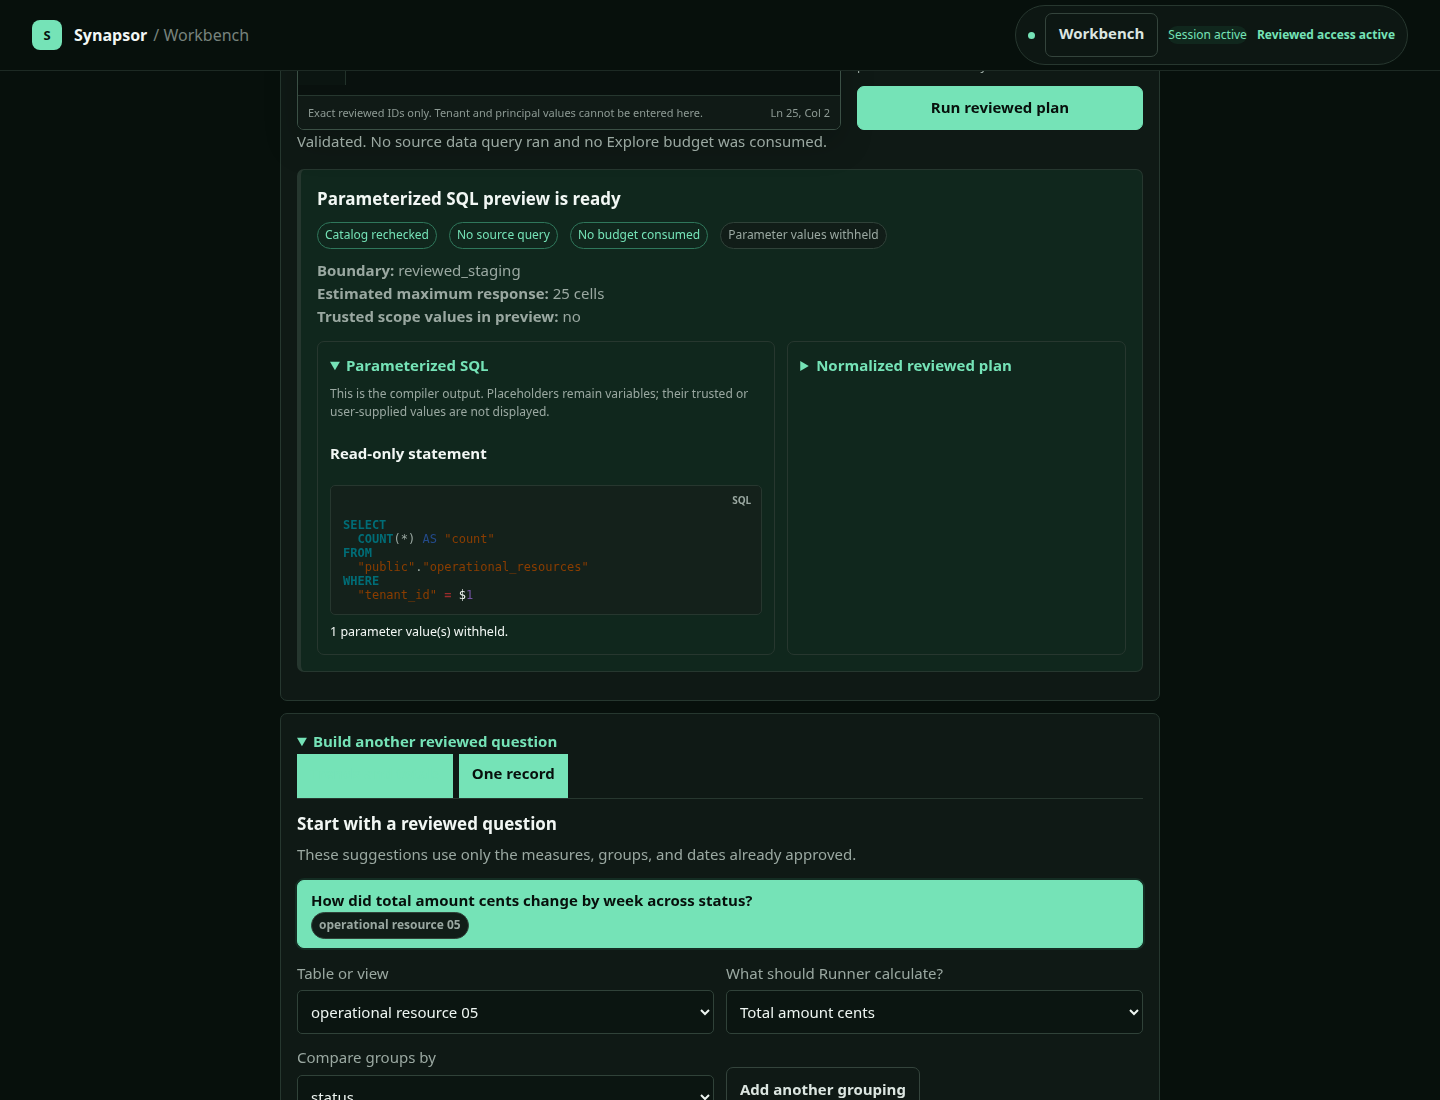
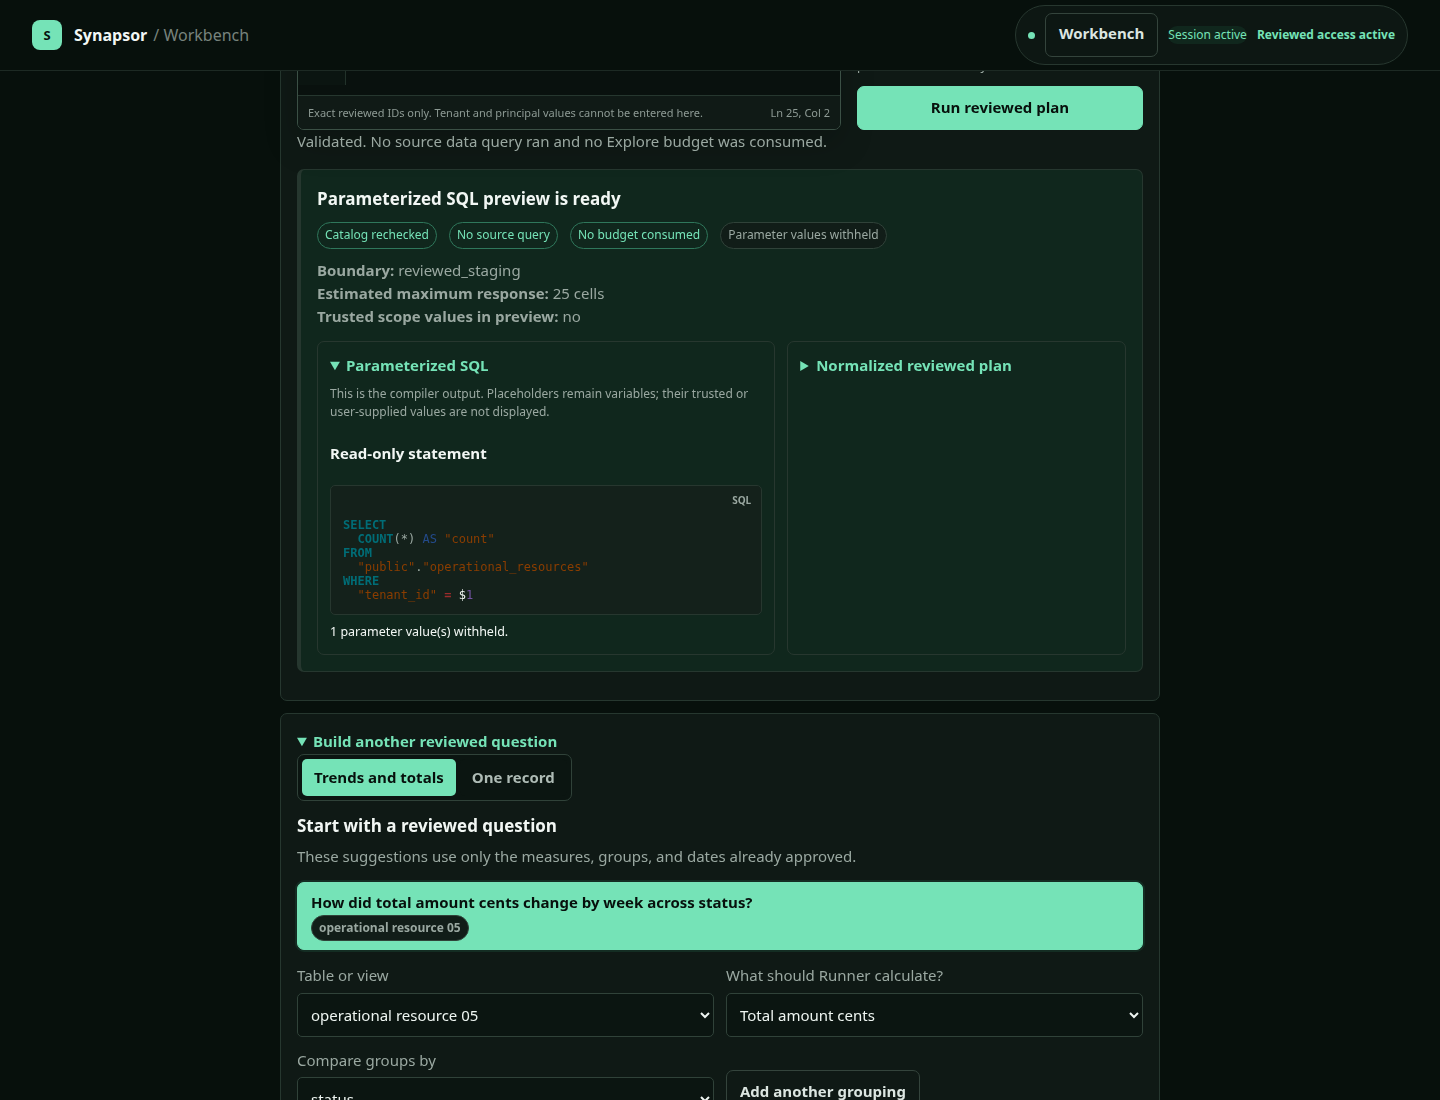
Fix Explore mode tab contrast

diff --git a/apps/runner/src/boundary-workbench.ts b/apps/runner/src/boundary-workbench.ts
@@ -100,6 +100,10 @@ export function renderBoundaryWorkbench(csrfToken: string): string {
     body.quick-start-mode .header-status,body.ask-focus-mode .header-status{padding:7px 12px;border:1px solid #27372f;border-radius:999px;background:#0d1713}
     body.quick-start-mode button,body.ask-focus-mode button{background:#75e3b7;border-color:#75e3b7;color:#07100c}
     body.quick-start-mode button.secondary,body.quick-start-mode button.quiet,body.ask-focus-mode button.secondary,body.ask-focus-mode button.quiet{background:transparent;border-color:#34443c;color:#dce6e1}
+    body.ask-focus-mode .tabs{display:inline-flex;width:max-content;max-width:100%;gap:4px;padding:4px;border:1px solid #304239;border-radius:7px;background:#0b1511}
+    body.ask-focus-mode button.tab{min-height:36px;padding:7px 12px;border:0;border-radius:5px;background:#0b1511;color:#aebbb5}
+    body.ask-focus-mode button.tab:not(:disabled):hover{border-color:transparent;background:#17261f;color:#f1f6f3;transform:none}
+    body.ask-focus-mode button.tab.active,body.ask-focus-mode button.tab.active:not(:disabled):hover{border-color:#75e3b7;background:#75e3b7;color:#07100c}
     body.quick-start-mode .workbench-layout{grid-template-columns:minmax(0,1fr);justify-content:center}
     body.quick-start-mode .workflow-rail{display:none}
     body.quick-start-mode #view-overview>*{display:none!important}

diff --git a/apps/runner/src/boundary-workbench.test.ts b/apps/runner/src/boundary-workbench.test.ts
@@ -791,6 +791,7 @@ describe("Auto Boundary Workbench renderer", () => {
     expect(html).toContain("docs/approval-roles-and-operator-identity.md");
     expect(html).toContain("Try your first reviewed question");
     expect(html).toContain("Build another reviewed question");
+    expect(html).toContain("body.ask-focus-mode button.tab.active");
     expect(html).toContain("No time grouping");
     expect(html).toContain("Model + Runner");
     expect(html).toContain("Withheld from model");
